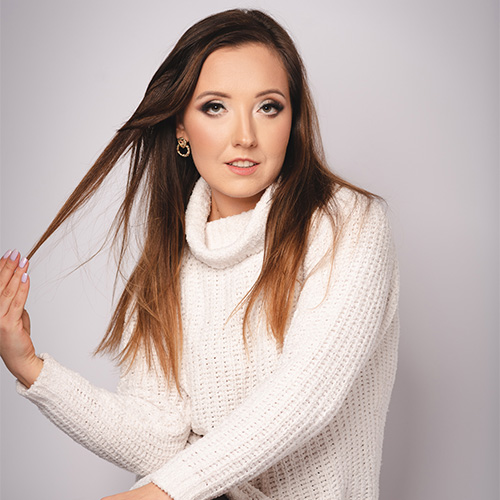
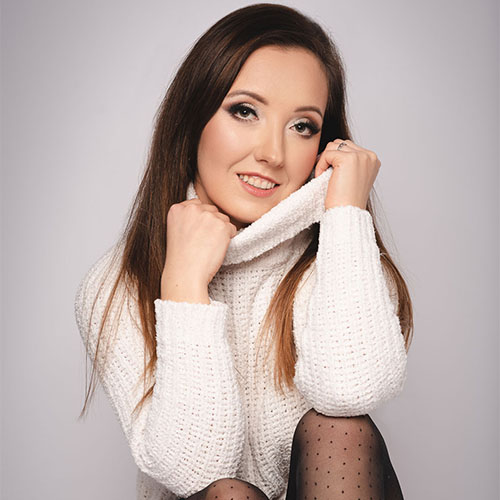
galleryFourAdded

diff --git a/src/components/photos/photosFour.js b/src/components/photos/photosFour.js
@@ -1,0 +1,185 @@
+import img1 from "../../images/galleries/gallery-four/fotografia_kobieca_bialystok_413.jpg";
+import img2 from "../../images/galleries/gallery-four/fotografia_kobieca_bialystok_418.jpg";
+import img3 from "../../images/galleries/gallery-four/fotografia_kobieca_bialystok_419.jpg";
+import img4 from "../../images/galleries/gallery-four/fotografia_kobieca_bialystok_420.jpg";
+import img5 from "../../images/galleries/gallery-four/fotografia_kobieca_bialystok_414.jpg";
+import img6 from "../../images/galleries/gallery-four/fotografia_kobieca_bialystok_415.jpg";
+import img7 from "../../images/galleries/gallery-four/fotografia_kobieca_bialystok_416.jpg";
+import img8 from "../../images/galleries/gallery-four/fotografia_kobieca_bialystok_417.jpg";
+import img9 from "../../images/galleries/gallery-four/fotografia_kobieca_bialystok_423.jpg";
+import img10 from "../../images/galleries/gallery-four/fotografia_kobieca_bialystok_424.jpg";
+import img11 from "../../images/galleries/gallery-four/fotografia_kobieca_bialystok_425.jpg";
+import img12 from "../../images/galleries/gallery-four/fotografia_kobieca_bialystok_426.jpg";
+import img13 from "../../images/galleries/gallery-four/fotografia_kobieca_bialystok_427.jpg";
+import img14 from "../../images/galleries/gallery-four/fotografia_kobieca_bialystok_428.jpg";
+import img15 from "../../images/galleries/gallery-four/fotografia_kobieca_bialystok_429.jpg";
+import img16 from "../../images/galleries/gallery-four/fotografia_kobieca_bialystok_430.jpg";
+import img17 from "../../images/galleries/gallery-four/fotografia_kobieca_bialystok_431.jpg";
+import img18 from "../../images/galleries/gallery-four/fotografia_kobieca_bialystok_432.jpg";
+import img19 from "../../images/galleries/gallery-four/fotografia_kobieca_bialystok_401.jpg";
+import img20 from "../../images/galleries/gallery-four/fotografia_kobieca_bialystok_402.jpg";
+import img21 from "../../images/galleries/gallery-four/fotografia_kobieca_bialystok_403.jpg";
+import img22 from "../../images/galleries/gallery-four/fotografia_kobieca_bialystok_404.jpg";
+import img23 from "../../images/galleries/gallery-four/fotografia_kobieca_bialystok_405.jpg";
+import img24 from "../../images/galleries/gallery-four/fotografia_kobieca_bialystok_406.jpg";
+import img25 from "../../images/galleries/gallery-four/fotografia_kobieca_bialystok_407.jpg";
+import img26 from "../../images/galleries/gallery-four/fotografia_kobieca_bialystok_408.jpg";
+import img27 from "../../images/galleries/gallery-four/fotografia_kobieca_bialystok_409.jpg";
+import img28 from "../../images/galleries/gallery-four/fotografia_kobieca_bialystok_410.jpg";
+import img29 from "../../images/galleries/gallery-four/fotografia_kobieca_bialystok_411.jpg";
+import img30 from "../../images/galleries/gallery-four/fotografia_kobieca_bialystok_412.jpg";
+import img31 from "../../images/galleries/gallery-four/fotografia_kobieca_bialystok_421.jpg";
+import img32 from "../../images/galleries/gallery-four/fotografia_kobieca_bialystok_422.jpg";
+
+export const photos = [
+  {
+    src: img1,
+    width: 2,
+    height: 3,
+  },
+  {
+    src: img2,
+    width: 3,
+    height: 2,
+  },
+  {
+    src: img3,
+    width: 2,
+    height: 3,
+  },
+  {
+    src: img4,
+    width: 2,
+    height: 3,
+  },
+  {
+    src: img5,
+    width: 2,
+    height: 3,
+  },
+  {
+    src: img6,
+    width: 2,
+    height: 3,
+  },
+  {
+    src: img9,
+    width: 2,
+    height: 3,
+  },
+  {
+    src: img10,
+    width: 2,
+    height: 3,
+  },
+  {
+    src: img11,
+    width: 2,
+    height: 3,
+  },
+  {
+    src: img12,
+    width: 2,
+    height: 3,
+  },
+  {
+    src: img13,
+    width: 2,
+    height: 3,
+  },
+  {
+    src: img14,
+    width: 2,
+    height: 3,
+  },
+  {
+    src: img15,
+    width: 2,
+    height: 3,
+  },
+  {
+    src: img16,
+    width: 2,
+    height: 3,
+  },
+  {
+    src: img17,
+    width: 2,
+    height: 3,
+  },
+  {
+    src: img18,
+    width: 2,
+    height: 3,
+  },
+  {
+    src: img19,
+    width: 2,
+    height: 3,
+  },
+  {
+    src: img20,
+    width: 2,
+    height: 3,
+  },
+  {
+    src: img21,
+    width: 2,
+    height: 3,
+  },
+  {
+    src: img22,
+    width: 2,
+    height: 3,
+  },
+  {
+    src: img23,
+    width: 2,
+    height: 3,
+  },
+  {
+    src: img24,
+    width: 2,
+    height: 3,
+  },
+  {
+    src: img25,
+    width: 2,
+    height: 3,
+  },
+  {
+    src: img26,
+    width: 2,
+    height: 3,
+  },
+  {
+    src: img27,
+    width: 2,
+    height: 3,
+  },
+  {
+    src: img28,
+    width: 2,
+    height: 3,
+  },
+  {
+    src: img29,
+    width: 2,
+    height: 3,
+  },
+  {
+    src: img30,
+    width: 2,
+    height: 3,
+  },
+  {
+    src: img31,
+    width: 2,
+    height: 3,
+  },
+  {
+    src: img32,
+    width: 2,
+    height: 3,
+  },
+];

diff --git a/src/structure/Main/Main.js b/src/structure/Main/Main.js
@@ -8,6 +8,7 @@ import Galleries from "../../views/Galleries/Galleries";
 import GalleryOne from "../../views/Galleries/SingleGalleries/GalleryOne";
 import GalleryTwo from "../../views/Galleries/SingleGalleries/GalleryTwo";
 import GalleryThree from "../../views/Galleries/SingleGalleries/GalleryThree";
+import GalleryFour from "../../views/Galleries/SingleGalleries/GalleryFour";
 import GalleryFive from "../../views/Galleries/SingleGalleries/GalleryFive";
 import GallerySix from "../../views/Galleries/SingleGalleries/GallerySix";
 import GallerySeven from "../../views/Galleries/SingleGalleries/GallerySeven";
@@ -23,6 +24,7 @@ const Main = () => {
         <Route path='/dancing-soul' component={GalleryOne}></Route>
         <Route path='/be-my-valentine' component={GalleryTwo}></Route>
         <Route path='/gal3' component={GalleryThree}></Route>
+        <Route path='/gal4' component={GalleryFour}></Route>
         <Route path='/carefree-afternoon' component={GalleryFive}></Route>
         <Route path='/gal6' component={GallerySix}></Route>
         <Route path='/golden-20s' component={GallerySeven}></Route>

diff --git a/src/views/Galleries/SingleGalleries/GalleryFour.js b/src/views/Galleries/SingleGalleries/GalleryFour.js
@@ -1,0 +1,15 @@
+import React from "react";
+import { photos } from "../../../components/photos/photosFour";
+import PhotoGalleries from "../../../components/PhotoGalleries/PhotoGalleries";
+
+import "./SingleGalleries.css";
+
+const GalleryFour = () => {
+  return (
+    <div className='single-gallery'>
+      <PhotoGalleries photos={photos} />
+    </div>
+  );
+};
+
+export default GalleryFour;

diff --git a/src/views/Galleries/Galleries.js b/src/views/Galleries/Galleries.js
@@ -33,7 +33,7 @@ const Galleries = () => {
         <h3>nazwa</h3>
       </div>
       <div className='cover'>
-        <NavLink to='/about'>
+        <NavLink to='/gal4'>
           <img src={cover4} alt='Domi' />
         </NavLink>
         <h3>nazwa</h3>
